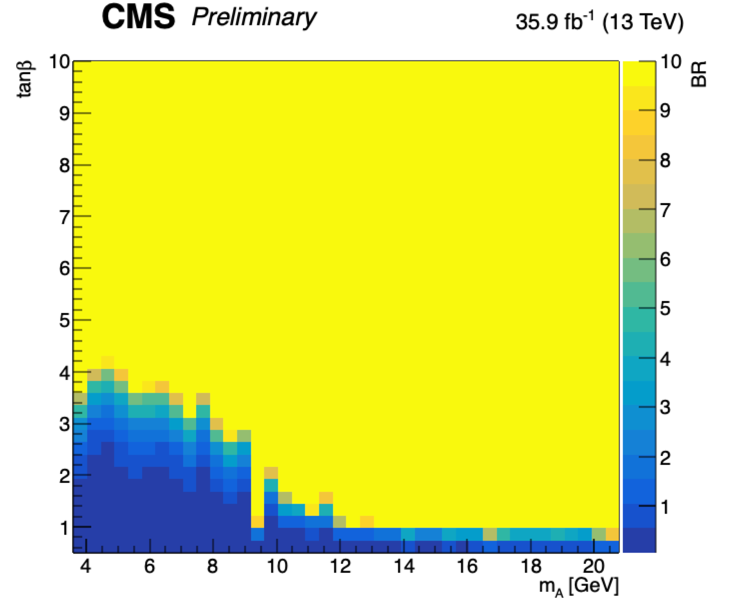
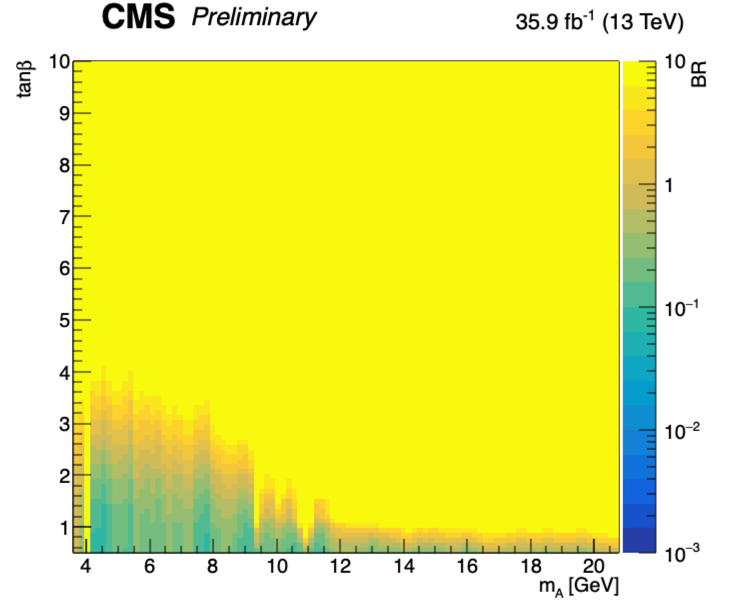
z axis changed to log scale

diff --git a/model_dependent.py b/model_dependent.py
@@ -114,6 +114,7 @@ if __name__ == "__main__":
 
     canv = ROOT.TCanvas("2HDM+S", "2HDM+S", 740, 640)
     canv.SetRightMargin(0.16) 
+    canv.SetLogz()
 
 
     # Create graph for observed data
@@ -122,7 +123,9 @@ if __name__ == "__main__":
     #graph_obs.GetXaxis().SetTitle("m_{A} [GeV]")  # Set x-axis label as m_A with unit GeV
     #graph_obs.GetYaxis().SetTitle("tan#beta")    # Set y-axis label as tan(beta)
     #graph_obs.GetZaxis().SetTitle("BR")
-    #graph_obs.SetMinimum(0.001)
+    graph_obs.SetNpx(100)
+    graph_obs.SetNpy(100)
+    graph_obs.SetMinimum(0.001)
     graph_obs.SetMaximum(10) #for model 2
     graph_obs.Draw("COLZ")
     canv.Modified()
@@ -137,7 +140,7 @@ if __name__ == "__main__":
 	    lumiBlurb=add_lumi_runI()
     lumiBlurb.Draw("same")
     canv.Update() 
-    canv.SaveAs('3D_plot_BR_vs_Mass_vs_tanBeta_obs_model4.png')
+    canv.SaveAs('3D_plot_BR_vs_Mass_vs_tanBeta_obs_model2.png')
 
     # Create graph for expected data
     graph_exp = ROOT.TGraph2D(len(x_mmtt_boosted_exp_total), x_mmtt_boosted_exp_total, tan_beta, z_exp_array)
@@ -145,7 +148,9 @@ if __name__ == "__main__":
     #graph_exp.GetXaxis().SetTitle("m_{A} [GeV]")  # Se t x-axis label as m_A with unit GeV
     #graph_exp.GetYaxis().SetTitle("tan#beta")    # Set y-axis label as tan(beta)
     #graph_exp.GetZaxis().SetTitle("BR") 
-    #graph_exp.SetMinimum(0.001)
+    graph_exp.SetNpx(100)
+    graph_exp.SetNpy(100)
+    graph_exp.SetMinimum(0.001)
     graph_exp.SetMaximum(10)
     graph_exp.Draw("COLZ")
     canv.Modified()
@@ -160,4 +165,4 @@ if __name__ == "__main__":
 	    lumiBlurb=add_lumi_runI()
     lumiBlurb.Draw("same")
     canv.Update() 
-    canv.SaveAs('3D_plot_BR_vs_Mass_vs_tanBeta_exp_model4.png')
+    canv.SaveAs('3D_plot_BR_vs_Mass_vs_tanBeta_exp_model2.png')
